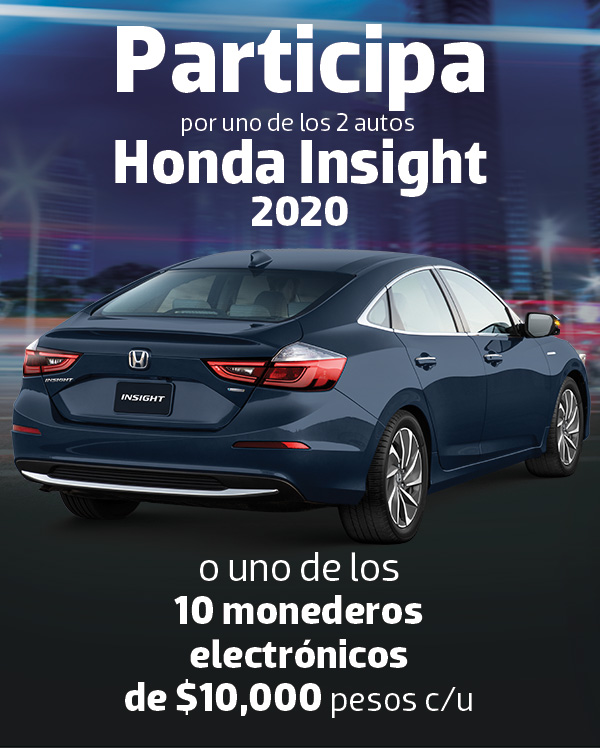
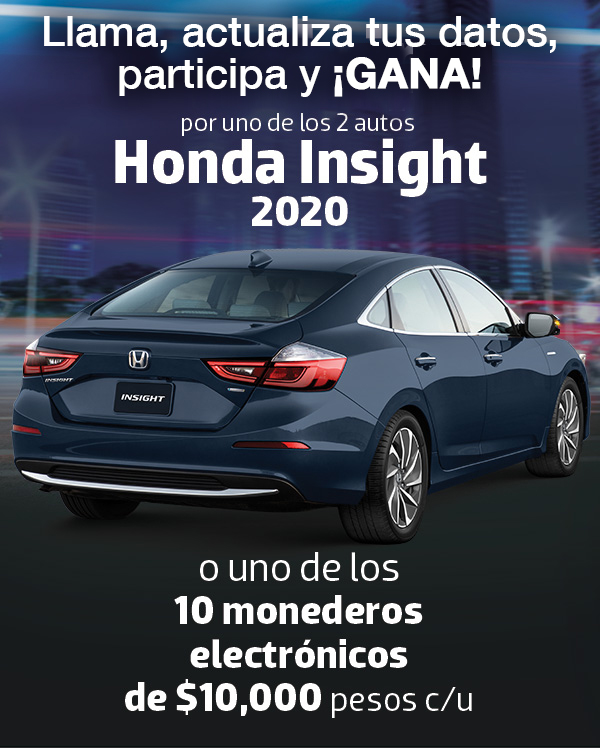
concurso actualizacion datos

Changed region(s): [[0.03, 0.0, 0.96, 0.1537]]

diff --git a/assetsA/assets/digital/mailings/sms/2019/12_diciembre/CONCURSO_SEGUROS_ACTUALIZACION_DATOS/index.html b/assetsA/assets/digital/mailings/sms/2019/12_diciembre/CONCURSO_SEGUROS_ACTUALIZACION_DATOS/index.html
@@ -5,9 +5,10 @@
 <meta http-equiv="Content-Type" content="text/html; charset=utf-8">
 <meta name="viewport" content="initial-scale=1">
 <meta http-equiv="Content-Type" content="text/html;">
+<link href="https://fonts.googleapis.com/css?family=Raleway:300,400,700&display=swap" rel="stylesheet">
 <title>Liverpool - Es parte de mi vida</title>
 <style>
-
+@import url('https://fonts.googleapis.com/css?family=Raleway:300,400,700&display=swap');
 	body { 
 		margin:0 auto;
 		padding:0;
@@ -200,7 +201,7 @@ td { font-size:1px; line-height:1px;}
 <!-- Preheader -->
 	<tr>
 		<td>
-			<p class="subject2" align="center" style="font-size:10px; color:#999">Llama, actualiza tus datos, participa y ¡GANA!</p>
+			<p class="subject2" align="center" style="font-size:10px; color:#999">Actualiza tus datos y participa.</p>
 		</td>
 	</tr>
 
@@ -210,78 +211,53 @@ td { font-size:1px; line-height:1px;}
         	<table class="contenidoGeneral" cellpadding="0" cellspacing="0" width="100%">
             	<tr>
                     <td class="logo">
-                    <a href="https://www.liverpool.com.mx/tienda/home?utm_source=email&utm_medium=responsys&utm_content=logo_liverpool&utm_campaign==${utm}">
+                    <a href="https://www.liverpool.com.mx/tienda/home?utm_source=email&utm_medium=responsys&utm_content=logo_liverpool&utm_campaign==SEGUROS_CONCURSO_ACTUALIZACION_DATOS_THS_SMS_DIC_10_2019_AVB">
                     <img src="images/logo_liv.jpg" alt="" width="600" height="70" style="align: top; border: 0;" title="Liverpool es parte de mi vida" /></a>
                     </td>
-                    
                 </tr>
             </table>
         </td>
     </tr>
-    
-    <!-- Nombre -->    
-    <tr cellspacing="0" class="main_cta">
-    	<td>
-        <table border="0" cellpadding="0" cellspacing="0" width="100%">
-        <tbody>
-        	<tr cellspacing="0">
-            	<td width="300" align="justify" style="width:300px display:block;">
-    	        	<h1 text-align="justify" style="font-size:15px; color:#888; padding: 10px;"> Hola ${NOMBRE}</h1>
-					<div style="display: none">
-					- Descubre las ofertas y promociones que tenemos para ti en Liverpool.
-					</div>
-					<td width="300" style="text-align: right;" class="navegador">
-					<p style="font-size:12px; color:#888 text-align:right; padding-left: 25px; padding-right: 10px"> <a name="__m_showit_" xt="SPCLICKTOVIEW" href="${form(campaign.name,{'usedb':true})}" target="_blank" style="color:#888;"> Si no puedes ver este correo haz <span style="text-decoration:underline"><strong>click aquí</strong></span></a>
-					</p>
-					</td>
-				</td>
-        	</tr>
-        </tbody>
-        </table>
-		</td>
-   </tr>  
   
 <!--Arte-->
 <tr class="main_cta">
         <td>
-        	<a href="https://www.liverpool.com.mx/tienda/home?utm_source=email&utm_medium=responsys&utm_content=mg_participa&utm_campaing=${utm}"xt="SPCLICKSTREAM"><img src="images/image_01.jpg" alt="" width="600" height=""  style="align: top; border: 0; display:block;" title="Liverpool" alt="Participa por uno de los 2 autos Honda Insight 2020" />
+        	<a href="https://www.liverpool.com.mx/tienda/promotions?utm_source=email&utm_medium=responsys&utm_content=mg_participa&utm_campaing=SEGUROS_CONCURSO_ACTUALIZACION_DATOS_THS_SMS_DIC_10_2019_AVB"xt="SPCLICKSTREAM"><img src="images/image_01.jpg" alt="" width="600" height=""  style="align: top; border: 0; display:block;" title="Liverpool" alt="Participa por uno de los 2 autos Honda Insight 2020" />
             </a>
         </td>
 </tr>
-<tr class="main_cta" id="desk">
-        <td>
-        	<a href="https://www.liverpool.com.mx/tienda/home?utm_source=email&utm_medium=responsys&utm_content=comunicate&utm_campaing=${utm}"xt="SPCLICKSTREAM"><img src="images/image_02.jpg" alt="" width="600" height=""  style="align: top; border: 0; display:block;" title="Liverpool" />
-            </a>
-        </td>
-</tr>
-<tr class="main_cta" id="mobile">
-        <td>
-        	<a href="tel:+525553281013"><img src="images/image_02.jpg" alt="" width="600" height=""  style="align: top; border: 0; display:block;" title="Liverpool" />
-            </a>
-        </td>
+<tr class="main_cta" style="margin-top: 0;">
+        <td style="padding: 10px;background: #e10098; text-align: center;"><a href="tel:+525553281013" style="text-decoration: none;">
+        	<p style="font-family: 'Raleway', sans-serif; font-size: 2.5em; color:white;">Comun&iacute;cate ahora mismo al<br><span style="font-size: 3.5rem;"><b>55 5328 1013</b></span><br><span style="font-size: 1.2rem; line-height: 70%;"><b>Horario de atenci&oacute;n de lunes a domingo de 8:30 a 21:00 hrs.</b><br>Durante la llamada podr&aacute;s recibir ofertas de otros servicios.</span><br><span style="font-size: 1.5rem;line-height: 70%;"><strong>Da click en el número para marcar en automático desde tu celular</strong></span></p></a>
+	</td>
 </tr>
 <tr class="main_cta">
         <td>
-        	<p style="color: #e10098; font-size: 1.8em; padding: 10px; text-align: center;">Si llamas antes del 2 de marzo de 2020<br> obt&eacute;n <strong>un folio</strong> para participar en el sorteo.<br><br>Si llamas antes del 3 de febrero de 2020<br> obt&eacute;n <strong>5 folios</strong> y as&iacute;, <strong>m&aacute;s oportunidades para ganar.</strong></p>
+        	<p style="font-family: 'Raleway', sans-serif;color: #e10098; font-size: 1.8em; padding: 10px; text-align: center;">Si llamas antes del 2 de marzo de 2020<br> obt&eacute;n <strong>un folio</strong> para participar en el sorteo.<br><br>Si llamas antes del 3 de febrero de 2020<br> obt&eacute;n <strong>5 folios</strong> y as&iacute;, <strong>m&aacute;s oportunidades para ganar.</strong></p>
         </td>
 </tr>
+<tr class="main_cta" style="margin:20px;">
+	<td>
+	  <a href="https://www.liverpool.com.mx/tienda/promotions?utm_source=email&amp;utm_medium=responsys&amp;utm_content=btn_bases&amp;utm_campaign=SEGUROS_CONCURSO_ACTUALIZACION_DATOS_THS_SMS_DIC_10_2019_AVB" xt="SPCLICKSTREAM" data-id="al1573154557262202dde" style="text-decoration:none;&quot;"><div style="width:300px;border-radius:25px;background:#E10098;color:white;font-size: 1.5em;padding:15px;text-decoration:none;text-align:center;font-family:'Raleway', sans-serif;margin:0 auto;">Consulta Bases aqu&iacute;</div>
+	  </a>
+	</td>
+  </tr>
 <tr class="main_cta">
         <td>
-        	<a href="https://www.liverpool.com.mx/tienda/home?utm_source=email&utm_medium=responsys&utm_content=actualiza_datos&utm_campaing=${utm}"xt="SPCLICKSTREAM"><img src="images/image_04.jpg" alt="" width="600" height="" style="align: top; border: 0; display:block;" title="Liverpool" />
-            </a>
+        	<p style="color: dimgray; font-size: 1.5em; padding: 10px; text-align: center;">PERMISO SEGOB NO.20190433PS00</p>
         </td>
 </tr>
 
 <!-- cintillo top deals -->
 <tr class="main_cta">
         <td style="margin-top: 10px;">
-            <a href="https://www.liverpool.com.mx/tienda/home?utm_source=email&amp;utm_medium=responsys&amp;utm_content=cintillo_top_deals_seguros&amp;utm_campaign=${utm}" xt="SPCLICKSTREAM"><img src="https://assetspwa.liverpool.com.mx/assets/digital/mailings/gifs/2019/10_octubre/gf_cintillo_topdeals.gif" alt="" width="600" height="" style="align: top; border: 0; display:block; margin-top: 10px;" title="Liverpool">
+            <a href="https://www.liverpool.com.mx/tienda/home?utm_source=email&amp;utm_medium=responsys&amp;utm_content=cintillo_top_deals_seguros&amp;utm_campaign=SEGUROS_CONCURSO_ACTUALIZACION_DATOS_THS_SMS_DIC_10_2019_AVB" xt="SPCLICKSTREAM"><img src="https://assetspwa.liverpool.com.mx/assets/digital/mailings/gifs/2019/10_octubre/gf_cintillo_topdeals.gif" alt="" width="600" height="" style="align: top; border: 0; display:block; margin-top: 10px;" title="Liverpool">
             </a>
         </td>
     </tr>
 <!-- cintllo pocket-->
 <tr class="main_cta">
-         <td><a href="https://liverpoolshapp.page.link/N1KR?utm_source=email&utm_medium=responsys&utm_content=cintillo_pocket&utm_campaign=${utm}"xt="SPCLICKSTREAM"><img alt="Liverpool" height="" src="https://assetspwa.liverpool.com.mx/assets/digital/mailings/img/cintillo_download_app.gif" style="align: top; border: 0; display:block;" title="Liverpool"  width="600" /> </a></td>
+         <td><a href="https://liverpoolshapp.page.link/N1KR?utm_source=email&utm_medium=responsys&utm_content=cintillo_pocket&utm_campaign=SEGUROS_CONCURSO_ACTUALIZACION_DATOS_THS_SMS_DIC_10_2019_AVB"xt="SPCLICKSTREAM"><img alt="Liverpool" height="" src="https://assetspwa.liverpool.com.mx/assets/digital/mailings/img/cintillo_download_app.gif" style="align: top; border: 0; display:block;" title="Liverpool"  width="600" /> </a></td>
 </tr>
   
  
@@ -292,27 +268,27 @@ td { font-size:1px; line-height:1px;}
                 <tr>
                 <center>
 					<td align="center" width="100px" style="padding-left: 15px;">
-						<a href="https://www.liverpool.com.mx/tienda/computo-y-electronica/cat5150041?utm_source=email&utm_medium=responsys&utm_content=menu_multimedia&utm_campaign==${utm}"style="text-decoration: none;  color: #888; font-size: 14px;"> Multimedia </a>
+						<a href="https://www.liverpool.com.mx/tienda/computo-y-electronica/cat5150041?utm_source=email&utm_medium=responsys&utm_content=menu_multimedia&utm_campaign==SEGUROS_CONCURSO_ACTUALIZACION_DATOS_THS_SMS_DIC_10_2019_AVB"style="text-decoration: none;  color: #888; font-size: 14px;"> Multimedia </a>
 					</td>
                		<td class="desaparecer" align="center"><a href="" style="text-decoration: none; color: #888;">&bull;</a></td>
                		<td align="center" width="90px">
-               			<a href="https://www.liverpool.com.mx/tienda/casa/catst8233783?utm_source=email&utm_medium=responsys&utm_content=menu_casa&utm_campaign==${utm}"style="text-decoration: none;  color: #888; font-size: 14px;"> Casa </a>
+               			<a href="https://www.liverpool.com.mx/tienda/casa/catst8233783?utm_source=email&utm_medium=responsys&utm_content=menu_casa&utm_campaign==SEGUROS_CONCURSO_ACTUALIZACION_DATOS_THS_SMS_DIC_10_2019_AVB"style="text-decoration: none;  color: #888; font-size: 14px;"> Casa </a>
 					</td>
                		<td class="desaparecer" align="center"><a href="" style="text-decoration: none; color: #888;">&bull;</a></td>
                		<td align="center" width="90px">
-						<a href="https://www.liverpool.com.mx/tienda/deportes/cat480332?utm_source=email&utm_medium=responsys&utm_content=menu_deportes&utm_campaign==${utm}"style="text-decoration: none;  color: #888; font-size: 14px;"> Deportes </a>
+						<a href="https://www.liverpool.com.mx/tienda/deportes/cat480332?utm_source=email&utm_medium=responsys&utm_content=menu_deportes&utm_campaign==SEGUROS_CONCURSO_ACTUALIZACION_DATOS_THS_SMS_DIC_10_2019_AVB"style="text-decoration: none;  color: #888; font-size: 14px;"> Deportes </a>
 					</td>
                		<td class="desaparecer" align="center"><a href="" style="text-decoration: none; color: #888;">&bull;</a></td>
                		<td align="center" width="90px">
-						<a href="https://www.liverpool.com.mx/tienda/belleza/cat5020010?utm_source=email&utm_medium=responsys&utm_content=menu_belleza&utm_campaign==${utm}"style="text-decoration: none;  color: #888; font-size: 14px;"> Belleza </a>
+						<a href="https://www.liverpool.com.mx/tienda/belleza/cat5020010?utm_source=email&utm_medium=responsys&utm_content=menu_belleza&utm_campaign==SEGUROS_CONCURSO_ACTUALIZACION_DATOS_THS_SMS_DIC_10_2019_AVB"style="text-decoration: none;  color: #888; font-size: 14px;"> Belleza </a>
 					</td>
                		<td class="desaparecer" align="center"><a href="" style="text-decoration: none; color: #888;">&bull;</a></td>
                     <td align="center" width="90px">
-						<a href="https://www.liverpool.com.mx/tienda/ella/catst4003072?utm_source=email&utm_medium=responsys&utm_content=menu_ella&utm_campaign==${utm}"style="text-decoration: none;  color: #888; font-size: 14px;"> Ella </a>
+						<a href="https://www.liverpool.com.mx/tienda/ella/catst4003072?utm_source=email&utm_medium=responsys&utm_content=menu_ella&utm_campaign==SEGUROS_CONCURSO_ACTUALIZACION_DATOS_THS_SMS_DIC_10_2019_AVB"style="text-decoration: none;  color: #888; font-size: 14px;"> Ella </a>
 					</td>
                		<td class="desaparecer" align="center"><a href="" style="text-decoration: none; color: #888;">&bull;</a></td>
                     <td align="center" width="90px" style="padding-right: 10px">
-                    	<a href="https://www.liverpool.com.mx/tienda/el/cat5020003?utm_source=email&utm_medium=responsys&utm_content=menu_el&utm_campaign==${utm}"style="text-decoration: none;  color: #888; font-size: 14px;"> &Eacute;l </a>
+                    	<a href="https://www.liverpool.com.mx/tienda/el/cat5020003?utm_source=email&utm_medium=responsys&utm_content=menu_el&utm_campaign==SEGUROS_CONCURSO_ACTUALIZACION_DATOS_THS_SMS_DIC_10_2019_AVB"style="text-decoration: none;  color: #888; font-size: 14px;"> &Eacute;l </a>
 					</td>
 					</center>
                 </tr>
@@ -386,7 +362,7 @@ td { font-size:1px; line-height:1px;}
 						    <td align="center" width="100%" height="0" style="border: 0px solid #f2f2f2; padding: 5px 20px; background-color: #f2f2f2; color: #888;  font-size: 11px; font-weight: lighter;">
 								<p style="color: #888;  font-size: 12px; font-weight: lighter;">
 								<strong>Restricciones</strong> <br>
-							PERMISO SEGOB NO.20190433PS00.<br>Vigencia de la promoción del 2 de diciembre de 2019 al 2 de marzo de 2020.<br>
+							Vigencia de la promoción del 2 de diciembre de 2019 al 2 de marzo de 2020.<br>
 								Consulta las bases <a href="https://www.liverpool.com.mx/tienda/promotions" style="text-decoration: none; color: #666;"><strong>aqu&iacute;</strong></a>
 							</td>
 						 </tr>
@@ -397,10 +373,10 @@ td { font-size:1px; line-height:1px;}
 								D.R., &copy;, DISTRIBUIDORA LIVERPOOL, S.A. DE C.V. Queda prohibida la reproducci&oacute;n total o parcial, por cualquier medio o forma, sin la autorizaci&oacute;n previa, expresa y por escrito de su titular. <br>Servicios Liverpool S.A. de C.V. 2019</p>
 								<br/>
 								
-								Favor de no responder este correo. <br>
+								<!--Favor de no responder este correo. <br>
 								Si ya no deseas recibir nuestras promociones haz
 								<strong><a href="${form('Unsubscribe Form','EMAIL_ADDRESS_='+LIVERPOOL_CONTACTS_LIST.EMAIL_ADDRESS_)}" xt="LPWEBFORMOPTOUT" name="__m_withdraw_">
-								<font color="#888" style="text-decoration:underline;">click aqu&iacute;.</font></a></strong> <br><br><br>
+								<font color="#888" style="text-decoration:underline;">click aqu&iacute;.</font></a></strong> <br><br><br>-->
 							
 								
 								<a href="https://assets.liverpool.com.mx/ayuda/?_ga=2.193149869.1413622455.1526474099-1841854321.1474914212#/sec/otros-temas/terminos-y-condiciones/aviso-de-privacidad-integral" style="text-decoration:none; color:#888">Aviso de Privacidad</a> &nbsp; &bull; &nbsp;
